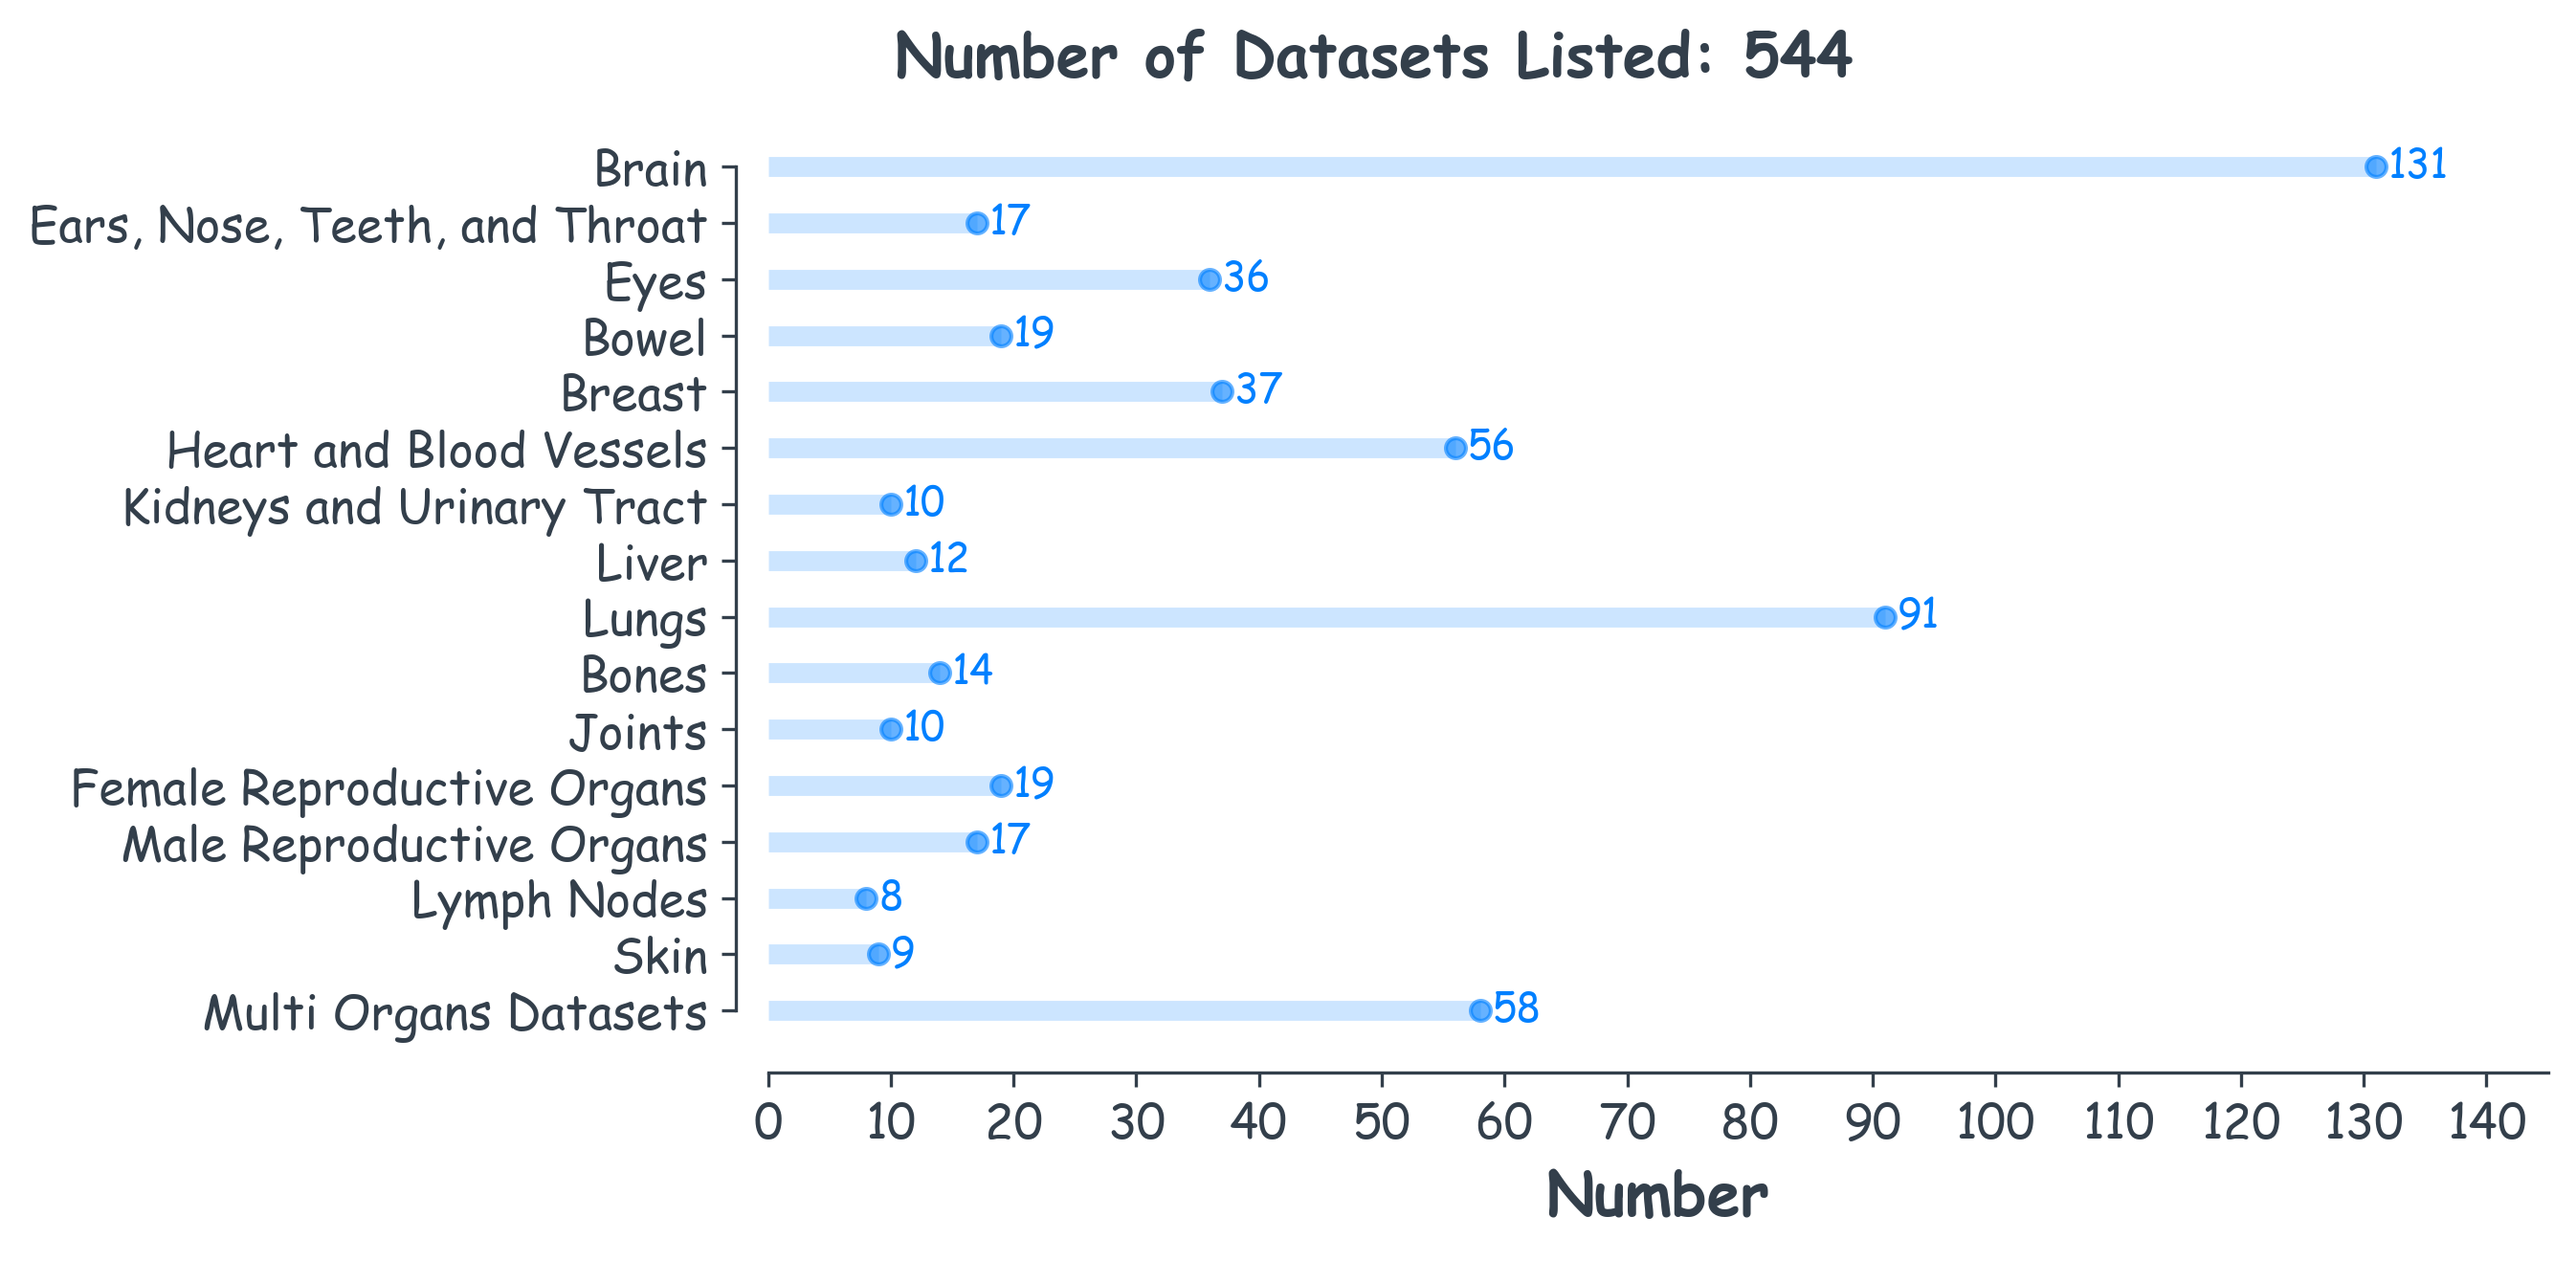
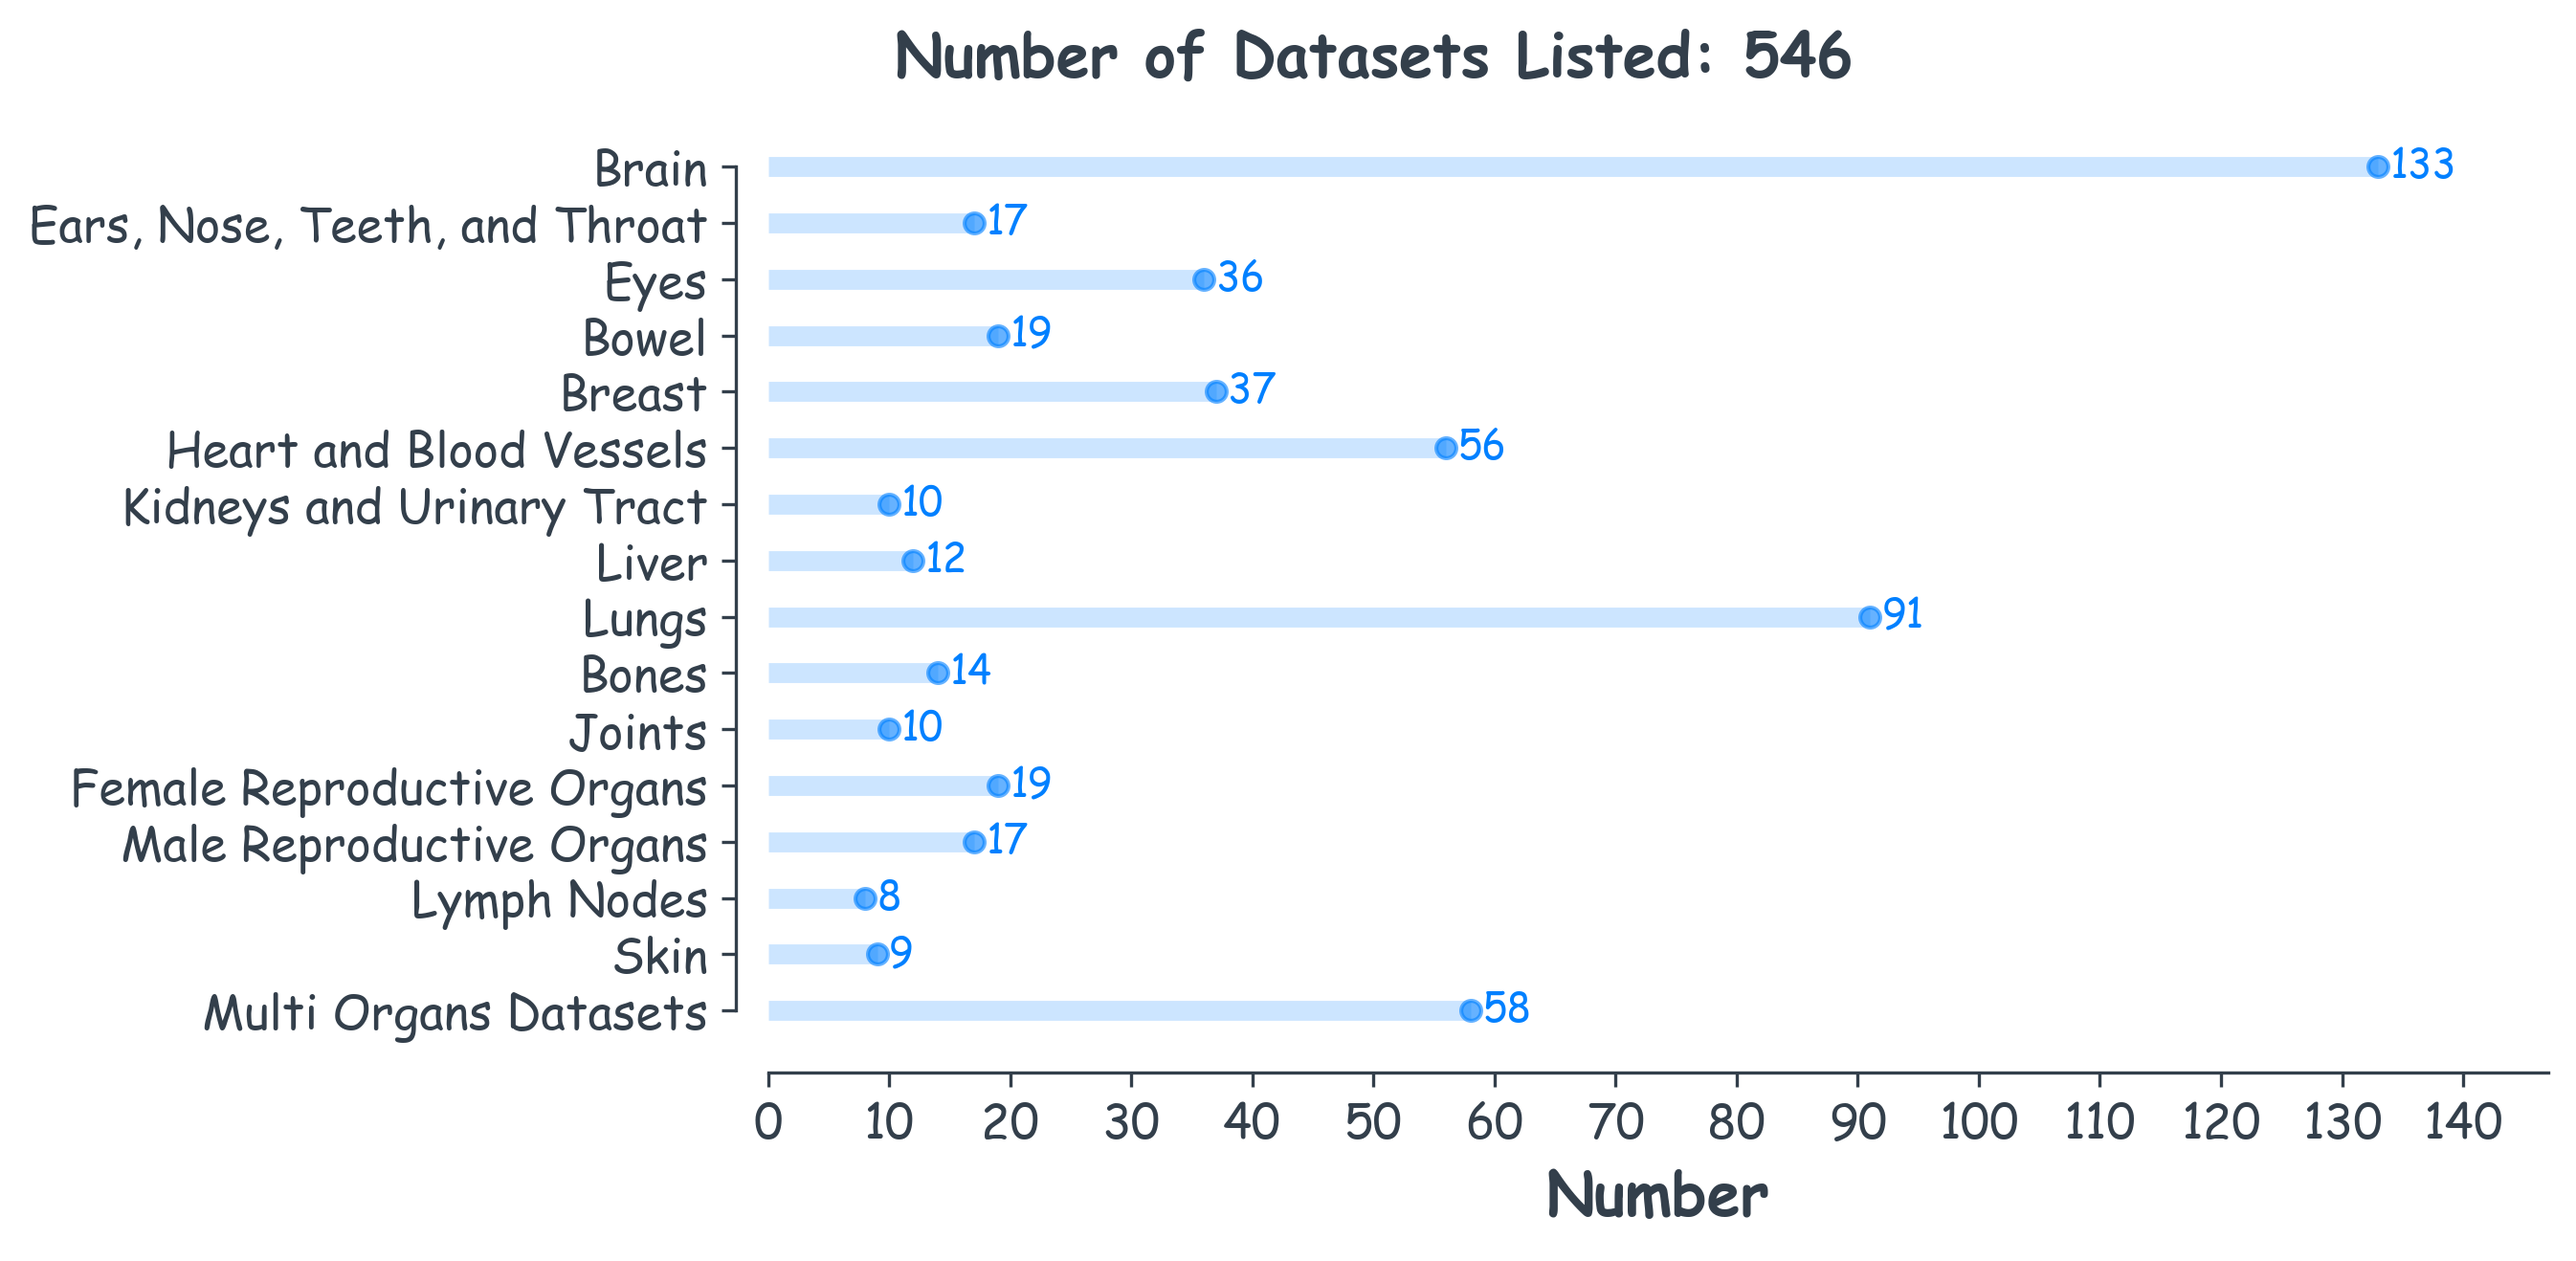
update image number, N = 546

diff --git a/src/datasetNumberImage.py b/src/datasetNumberImage.py
@@ -29,7 +29,7 @@ plt.rcParams['text.color']='#333F4B'
 
 
 data = {
-       'Brain': 131,
+       'Brain': 133,
        'Ears, Nose, Teeth, and Throat': 17, 
        'Eyes': 36,
        'Bowel': 19,
